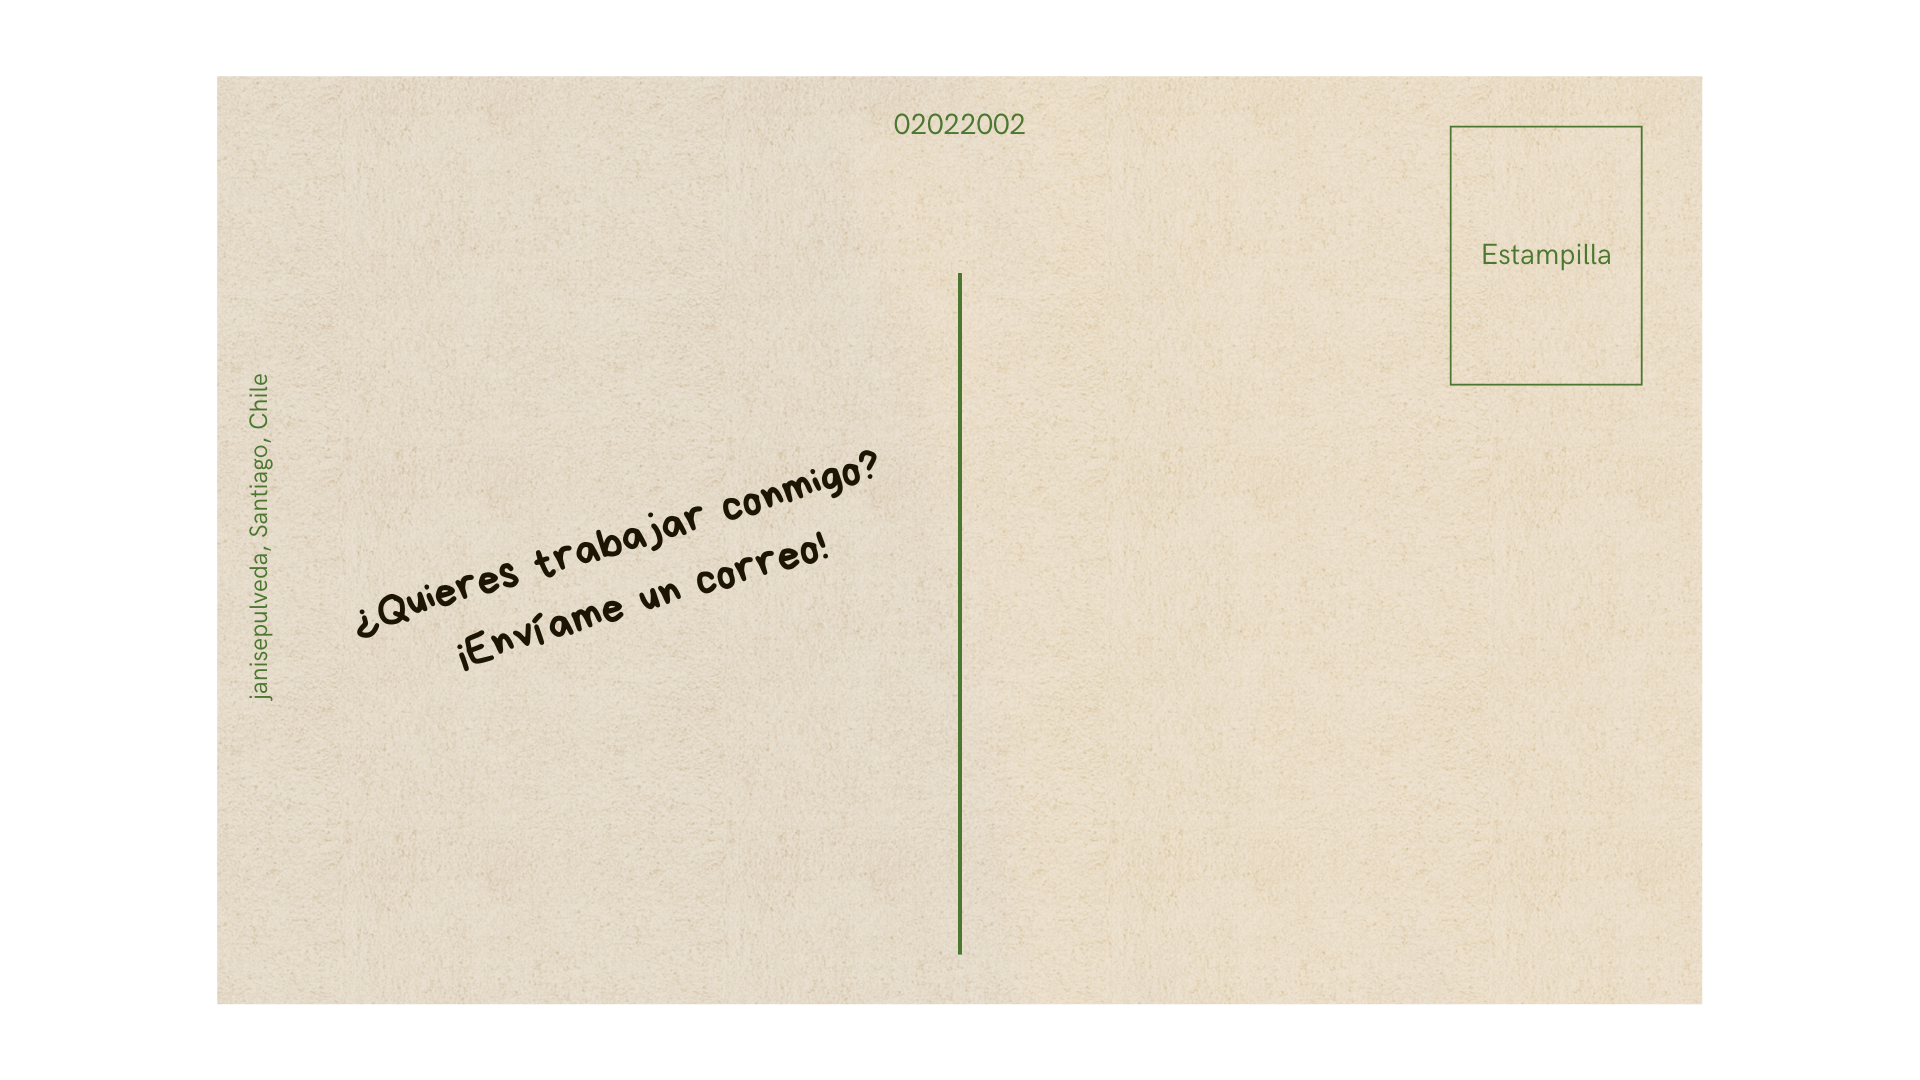
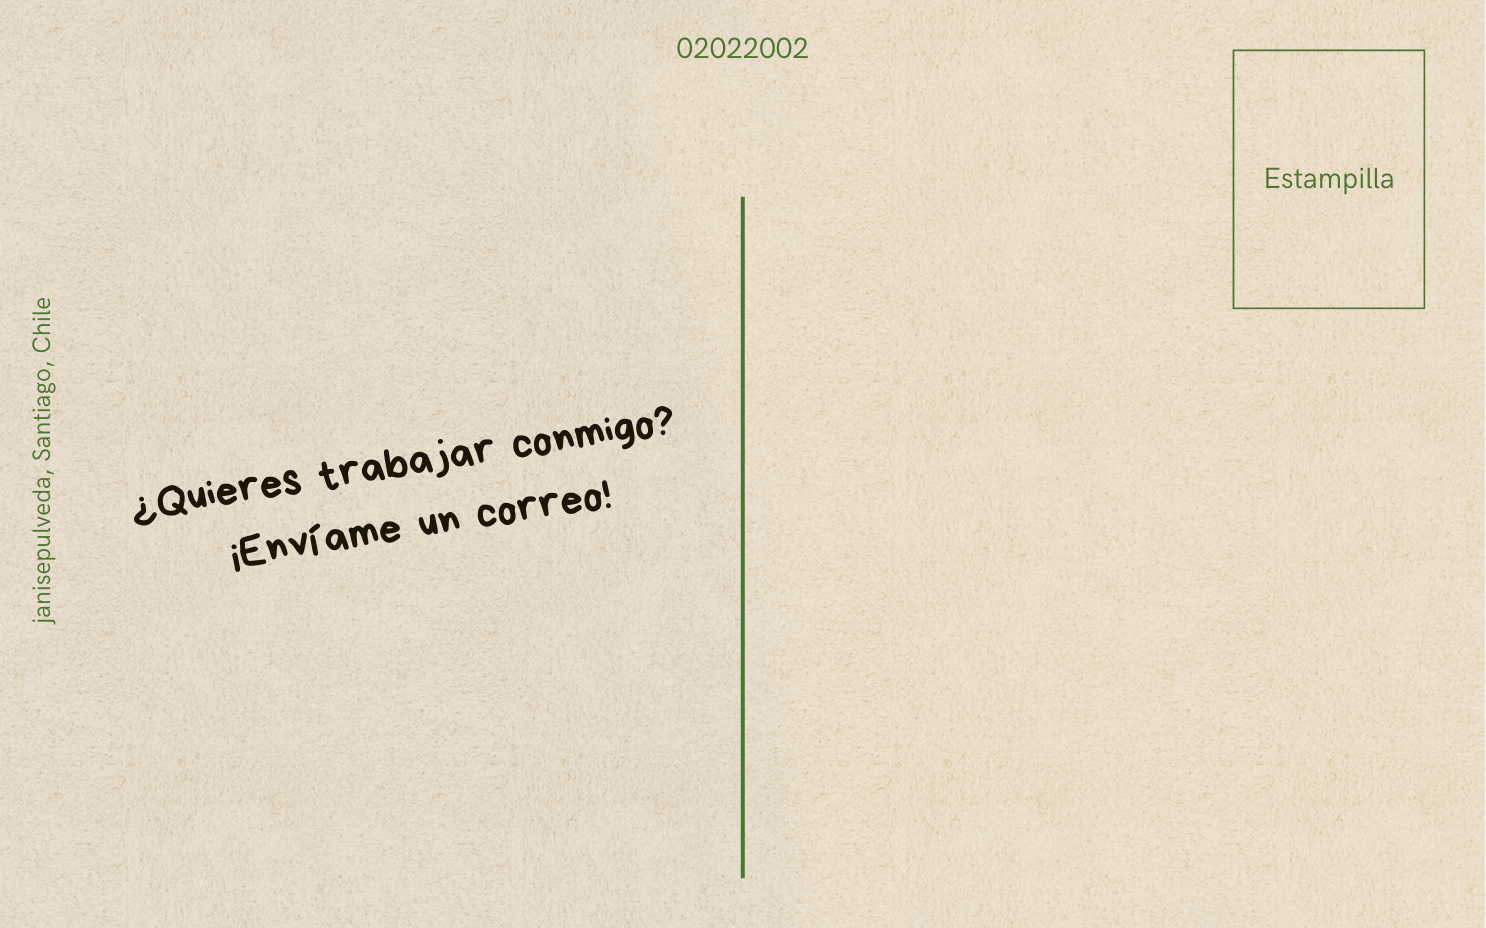
agregar estampillas

diff --git a/style.css b/style.css
@@ -353,34 +353,35 @@ html, body {
   width: 100%;
   height: calc(100vh - 80px);
   display: flex;
-  justify-content: flex-start;
+  justify-content: center; /* Cambiado a center para equilibrar con la estampilla */
   align-items: center;
   padding: 40px 80px;
   margin-top: 60px;
+  gap: 40px; /* Espacio entre postal y estampilla */
 }
 
 .postal-container {
-  position: relative; /* Importante para que el form se pegue a la imagen */
-  width: 100%;
+  position: relative; 
+  width: auto; /* Ajustado para que no ocupe todo el ancho */
   max-width: 1000px; 
   display: flex;
   justify-content: center;
 }
 
 .postal-img {
-  width: 1000% !important;
-  max-width: 1000% !important;
+  width: 100% !important;
+  max-width: 100% !important;
   height: auto !important;
-  max-height: 80vh !important;
+  max-height: 70vh !important;
   object-fit: contain;
 }
 
 /* FORMULARIO SOBRE LA POSTAL */
 .postal-form {
   position: absolute;
-  top: 38%;    /* Ajusta para que coincida con tus líneas */
-  right: 8%;   /* Ajusta para el lado derecho */
-  width: 38%;  /* Ancho del área de texto */
+  top: 38%;    
+  right: 8%;   
+  width: 38%;  
   display: flex;
   flex-direction: column;
   gap: 18px;
@@ -403,7 +404,7 @@ html, body {
 .form-group textarea {
   background: transparent;
   border: none;
-  border-bottom: 1.2px solid #4b7730; /* Línea estilo postal */
+  border-bottom: 1.2px solid #4b7730; 
   padding: 6px 0;
   font-family: 'Playfair Display', serif;
   font-size: 1rem;
@@ -416,7 +417,7 @@ html, body {
 }
 
 .send-btn {
-  background-color: #5d4037; /* Café oscuro */
+  background-color: #5d4037; 
   color: white;
   border: none;
   padding: 10px;
@@ -431,7 +432,44 @@ html, body {
   opacity: 0.8;
 }
 
+/* ===== NUEVA SECCIÓN: ESTAMPILLA FLOTANTE ===== */
+.estampilla-flotante {
+    display: flex;
+    flex-direction: column;
+    align-items: center;
+    justify-content: center;
+    z-index: 20;
+}
+
+.estampilla-flotante p {
+    font-size: 9px;
+    color: #4b7730;
+    margin-bottom: 10px;
+    font-family: 'Inter', sans-serif;
+    letter-spacing: 1px;
+}
+
+/* Forzamos el tamaño de la imagen con alta especificidad */
+.contacto-wrapper .estampilla-flotante img {
+    width: 130px !important;  /* Cambia este valor a tu gusto */
+    height: auto !important;
+    display: block !important;
+    max-width: 200px !important;
+}
+
 /* ===== RESPONSIVE ===== */
+@media (max-width: 1100px) {
+    .contacto-wrapper {
+        flex-direction: column;
+        height: auto;
+        padding: 40px 20px;
+    }
+    .estampilla-flotante {
+        margin-left: 0;
+        margin-top: 20px;
+    }
+}
+
 @media (max-width: 900px) {
   .gallery {
     grid-template-columns: repeat(2, 1fr);
@@ -439,9 +477,6 @@ html, body {
   .sobremi-container {
     grid-template-columns: 1fr;
     gap: 20px;
-  }
-  .contacto-wrapper {
-    padding: 40px;
   }
 }
 
@@ -465,31 +500,8 @@ html, body {
     right: 7%;
     top: 35%;
   }
-  .contacto-wrapper {
-    padding: 20px;
-    margin-top: 80px;
-  }
   .send-btn:active {
-  transform: scale(0.98);
-  background-color: #3e2723;
-  }
-  /* ===== ESTADOS DEL BOTÓN DE ENVÍO (POSTAL) ===== */
-
-  /* Estado cuando el botón está bloqueado (mientras envía o ya se envió) */
-  .send-btn:disabled {
-    cursor: not-allowed;
-    filter: grayscale(0.3); /* Lo hace un poco más opaco */
-    transform: none !important; /* Quita el efecto de escala al pasar el mouse */
-  }
-
-  /* Clase opcional por si quieres animar la transición del color */
-  .send-btn {
-    transition: background-color 0.4s ease, opacity 0.3s ease, transform 0.2s ease;
-  }
-
-  /* Esto asegura que si el JS le pone el color verde, se vea bien */
-  .send-btn[style*="background-color"] {
-    color: white !important;
-    font-weight: 600;
+    transform: scale(0.98);
+    background-color: #3e2723;
   }
 }

diff --git a/contacto.html b/contacto.html
@@ -48,6 +48,12 @@
         <button type="button" id="submit-btn" class="send-btn">Enviar mensaje</button>
       </form>
     </div>
+
+    <div class="estampilla-flotante">
+      <p>CHOOSE A STAMP</p>
+      <img src="assets/contacto/estampilla1.png" alt="Estampilla">
+    </div>
+    
   </main>
 
   <script>